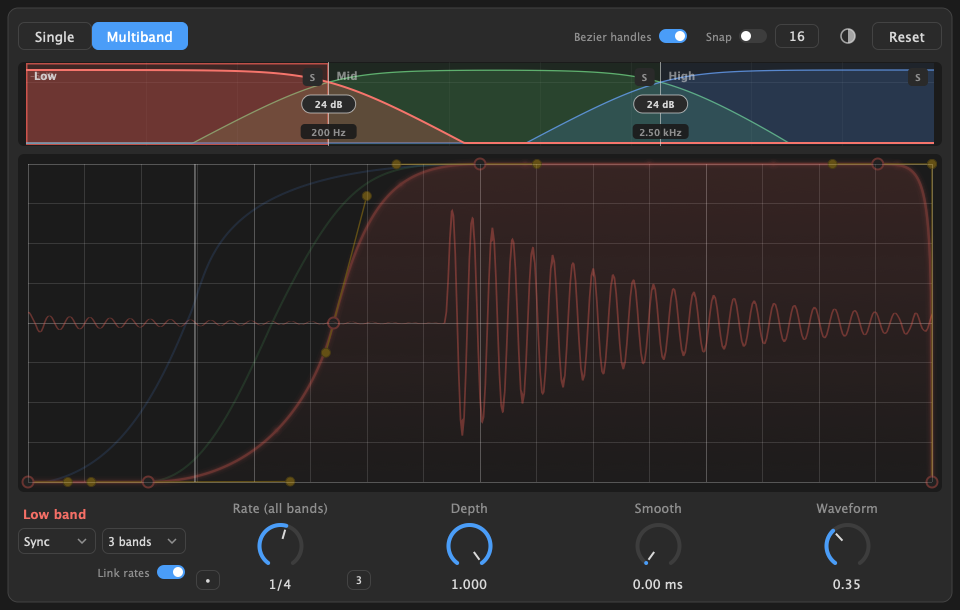
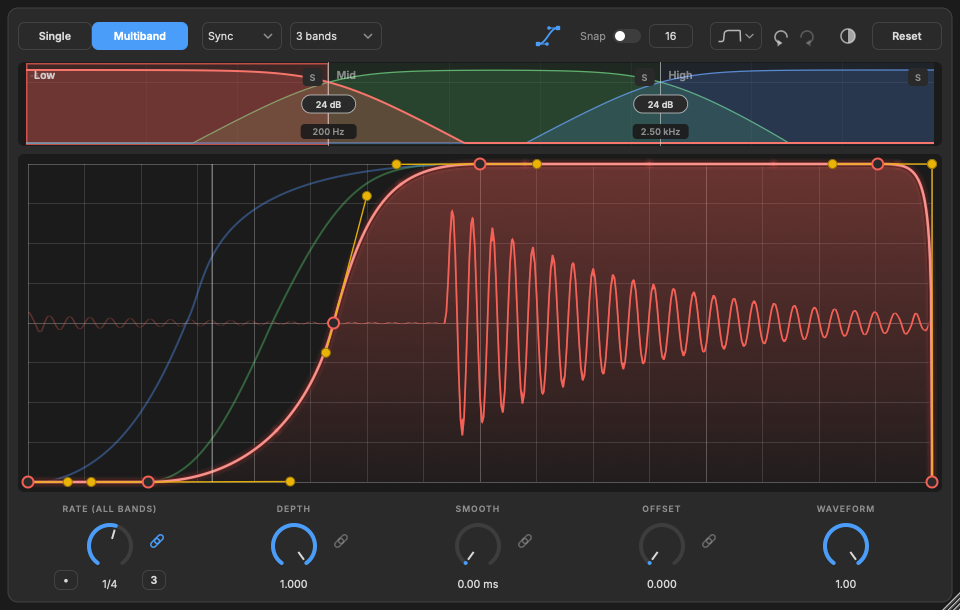
Update README text and screenshots

diff --git a/README.md b/README.md
@@ -27,7 +27,7 @@ It is an independent, from-scratch implementation inspired by the workflow of Xf
 - Draw any shape: double-click to add points, drag to move them.
 - **Bezier handles** on every point, After Effects style: all handles are visible at once, smooth by default, with Shift to break them apart.
 - **Simple mode**: one draggable diamond per segment instead of handles. It reaches much sharper bends than the handles can, and switching between the two styles converts your curve so it stays editable.
-- Easy-ease (double-click a point), straighten (double-click a Simple-mode diamond), delete (double-click a point).
+- Delete a point with a double-click (the first and last points stay), straighten a Simple-mode segment by double-clicking its diamond, toggle easy-ease by double-clicking the first or last point.
 - **Grid and snapping**: snapping is off by default; hold **Option (macOS) / Alt (Windows)** to snap, or turn the **Snap** switch on to reverse that. A draggable number sets how many grid lines there are (2, 3, 4, 6, 8, 12, 16, 24, 32, 36, 48, 64) and snapping lands exactly on the drawn lines.
 - **Undo / redo** for every edit (Ctrl/Cmd+Z, Shift+Ctrl/Cmd+Z or Ctrl+Y, or the arrows in the header): one step per drag, includes reset and the Bezier switch, and keeps the last 50 steps (about 40 KB).
 - **Presets and copy/paste** from the header's curve button: 20 factory shapes (house pump, soft and hard duck, long release, pump x2, nine kick-style rise/hold/drop shapes, sine, triangle, saws, flat) shown as small curve thumbnails, **Save curve as preset...** for your own, **Copy curve** and **Paste curve** (works between plugin instances and projects). A preset or pasted curve replaces only the curve you are editing (the selected band in Multiband) and is undoable.
@@ -47,13 +47,17 @@ It is an independent, from-scratch implementation inspired by the workflow of Xf
 - Defaults are a house-style sidechain pump where the lows stay ducked longest and the highs recover fastest.
 
 **Feedback while you work**
-- The input waveform is drawn folded onto the LFO cycle and coloured by frequency (red lows, green mids, blue highs), so you can see where the kick and the hats land against your curve.
+- The input waveform is drawn folded onto the LFO cycle, faintly, with the **output** (what the plugin actually lets through) drawn over it in the curve's colour, so you can see where the kick and the hats land against your curve and what the ducking does to them. In Multiband each band shows its own signal in its own colour (red lows, green mids, blue highs). The **Waveform** knob sets how strong this is.
 - An optional sidechain input is drawn too (display only, see [limitations](#known-limitations-and-roadmap)).
-- A grey line shows the **actual gain** after Depth, Smooth and Offset. The waveform behind the curve shows the input faintly with the **output** (input times that gain) drawn over it, so you see what the ducking does to the audio.
+- A grey line shows the **actual gain** after Depth, Smooth and Offset; the output waveform is the input multiplied by exactly that gain.
 - Light and dark themes (dark is the default, the choice is remembered).
 - **Resizable window** (880x500 up to 2000x1300): drag the bottom-right corner; the size is remembered.
 
 ![Multiband, dark theme](docs/images/multiband-dark.png)
+
+![Presets popup](docs/images/presets-dark.png)
+
+![Single band, light theme](docs/images/single-light.png)
 
 ## Install
 
@@ -76,8 +80,8 @@ Only the VST3 format is built (plus a standalone app for development). AU, AAX a
 | Drag a handle | Bend the curve; the opposite handle follows on smooth points |
 | Shift while dragging a handle | Break the handles apart |
 | Option/Alt or Ctrl while dragging a handle | Snap the handle's tip to the grid |
-| Double-click a point | Toggle easy-ease (flat tangents) |
 | Double-click a point | Delete it (the first and last points stay) |
+| Double-click the first or last point | Toggle easy-ease (flat tangents) |
 | Hold Option/Alt while dragging or adding | Snap to the grid (reversed if the Snap switch is on) |
 | Click empty space / click the curve | Hide / show all points and handles |
 | **Bezier handles** switch | Flip between handle editing and one-diamond Simple mode (curves are converted) |
@@ -88,7 +92,7 @@ Only the VST3 format is built (plus a standalone app for development). AU, AAX a
 
 **Rate knob.** In Sync mode it steps through the straight note values from slow to fast; the **•** (dotted) and **3** (triplet) buttons next to it modify the value. In Hz mode it is a continuous frequency.
 
-**Multiband tab.** Click a coloured region on the strip to edit that band, drag a split line to move it, click the pill on a split line to pick its slope, and use the **S** chips to solo bands. The knobs below always belong to the selected band.
+**Multiband tab.** Click a coloured region on the strip to edit that band, drag a split line to move it, click the pill on a split line to pick its slope, and use the **S** chips to solo bands. The knobs below belong to the selected band. The chain beside each of Rate, Depth, Smooth and Offset links that control: every band then follows one value (the mid band's, or the low band's in 2-band mode), and turning a link on copies the value you were looking at.
 
 ## How it sounds: the design rules
 
@@ -130,7 +134,7 @@ Everything below runs offline, without a DAW or a sound card. A small **fake DAW
 
 | Program | What it checks | How to run |
 |---|---|---|
-| `LfoAudioTest` | **108 audio checks**: bit-exact null at 100%, exact silence at 0%, transparency of every crossover slope, block-size independence, clicks on 24 kinds of parameter change, filter stability across 4 sample rates, NaN/Inf and zero-length blocks, a fuzz test that randomises every parameter and the transport, tempo accuracy at 130 bpm, Hz accuracy, MIDI restart, the sidechain bus, state save/load, zero allocations on the audio thread, thread safety while the curve is edited, CPU worst cases and denormals | `build/LfoAudioTest_artefacts/Release/LfoAudioTest` |
+| `LfoAudioTest` | **117 audio checks**: bit-exact null at 100%, exact silence at 0%, transparency of every crossover slope, block-size independence, clicks on 24 kinds of parameter change, filter stability across 4 sample rates, NaN/Inf and zero-length blocks, a fuzz test that randomises every parameter and the transport, tempo accuracy at 130 bpm, Hz accuracy, MIDI restart, the sidechain bus, state save/load, zero allocations on the audio thread, thread safety while the curve is edited, CPU worst cases and denormals | `build/LfoAudioTest_artefacts/Release/LfoAudioTest` |
 | `tests/envelope_test.cpp` | The curve model: Bezier evaluation, Simple-mode bends, conversions between the two, the default curves, saving and loading | `clang++ -std=c++17 tests/envelope_test.cpp -o envtest && ./envtest` |
 | `tests/crossover_test.cpp` | The crossover maths for all six slopes, mixed slopes, and the drawn response curves | `clang++ -std=c++17 tests/crossover_test.cpp -o xotest && ./xotest` |
 | `LfoBench` | CPU per block, plus quick null and multiband sanity checks | `build/LfoBench_artefacts/Release/LfoBench` |
